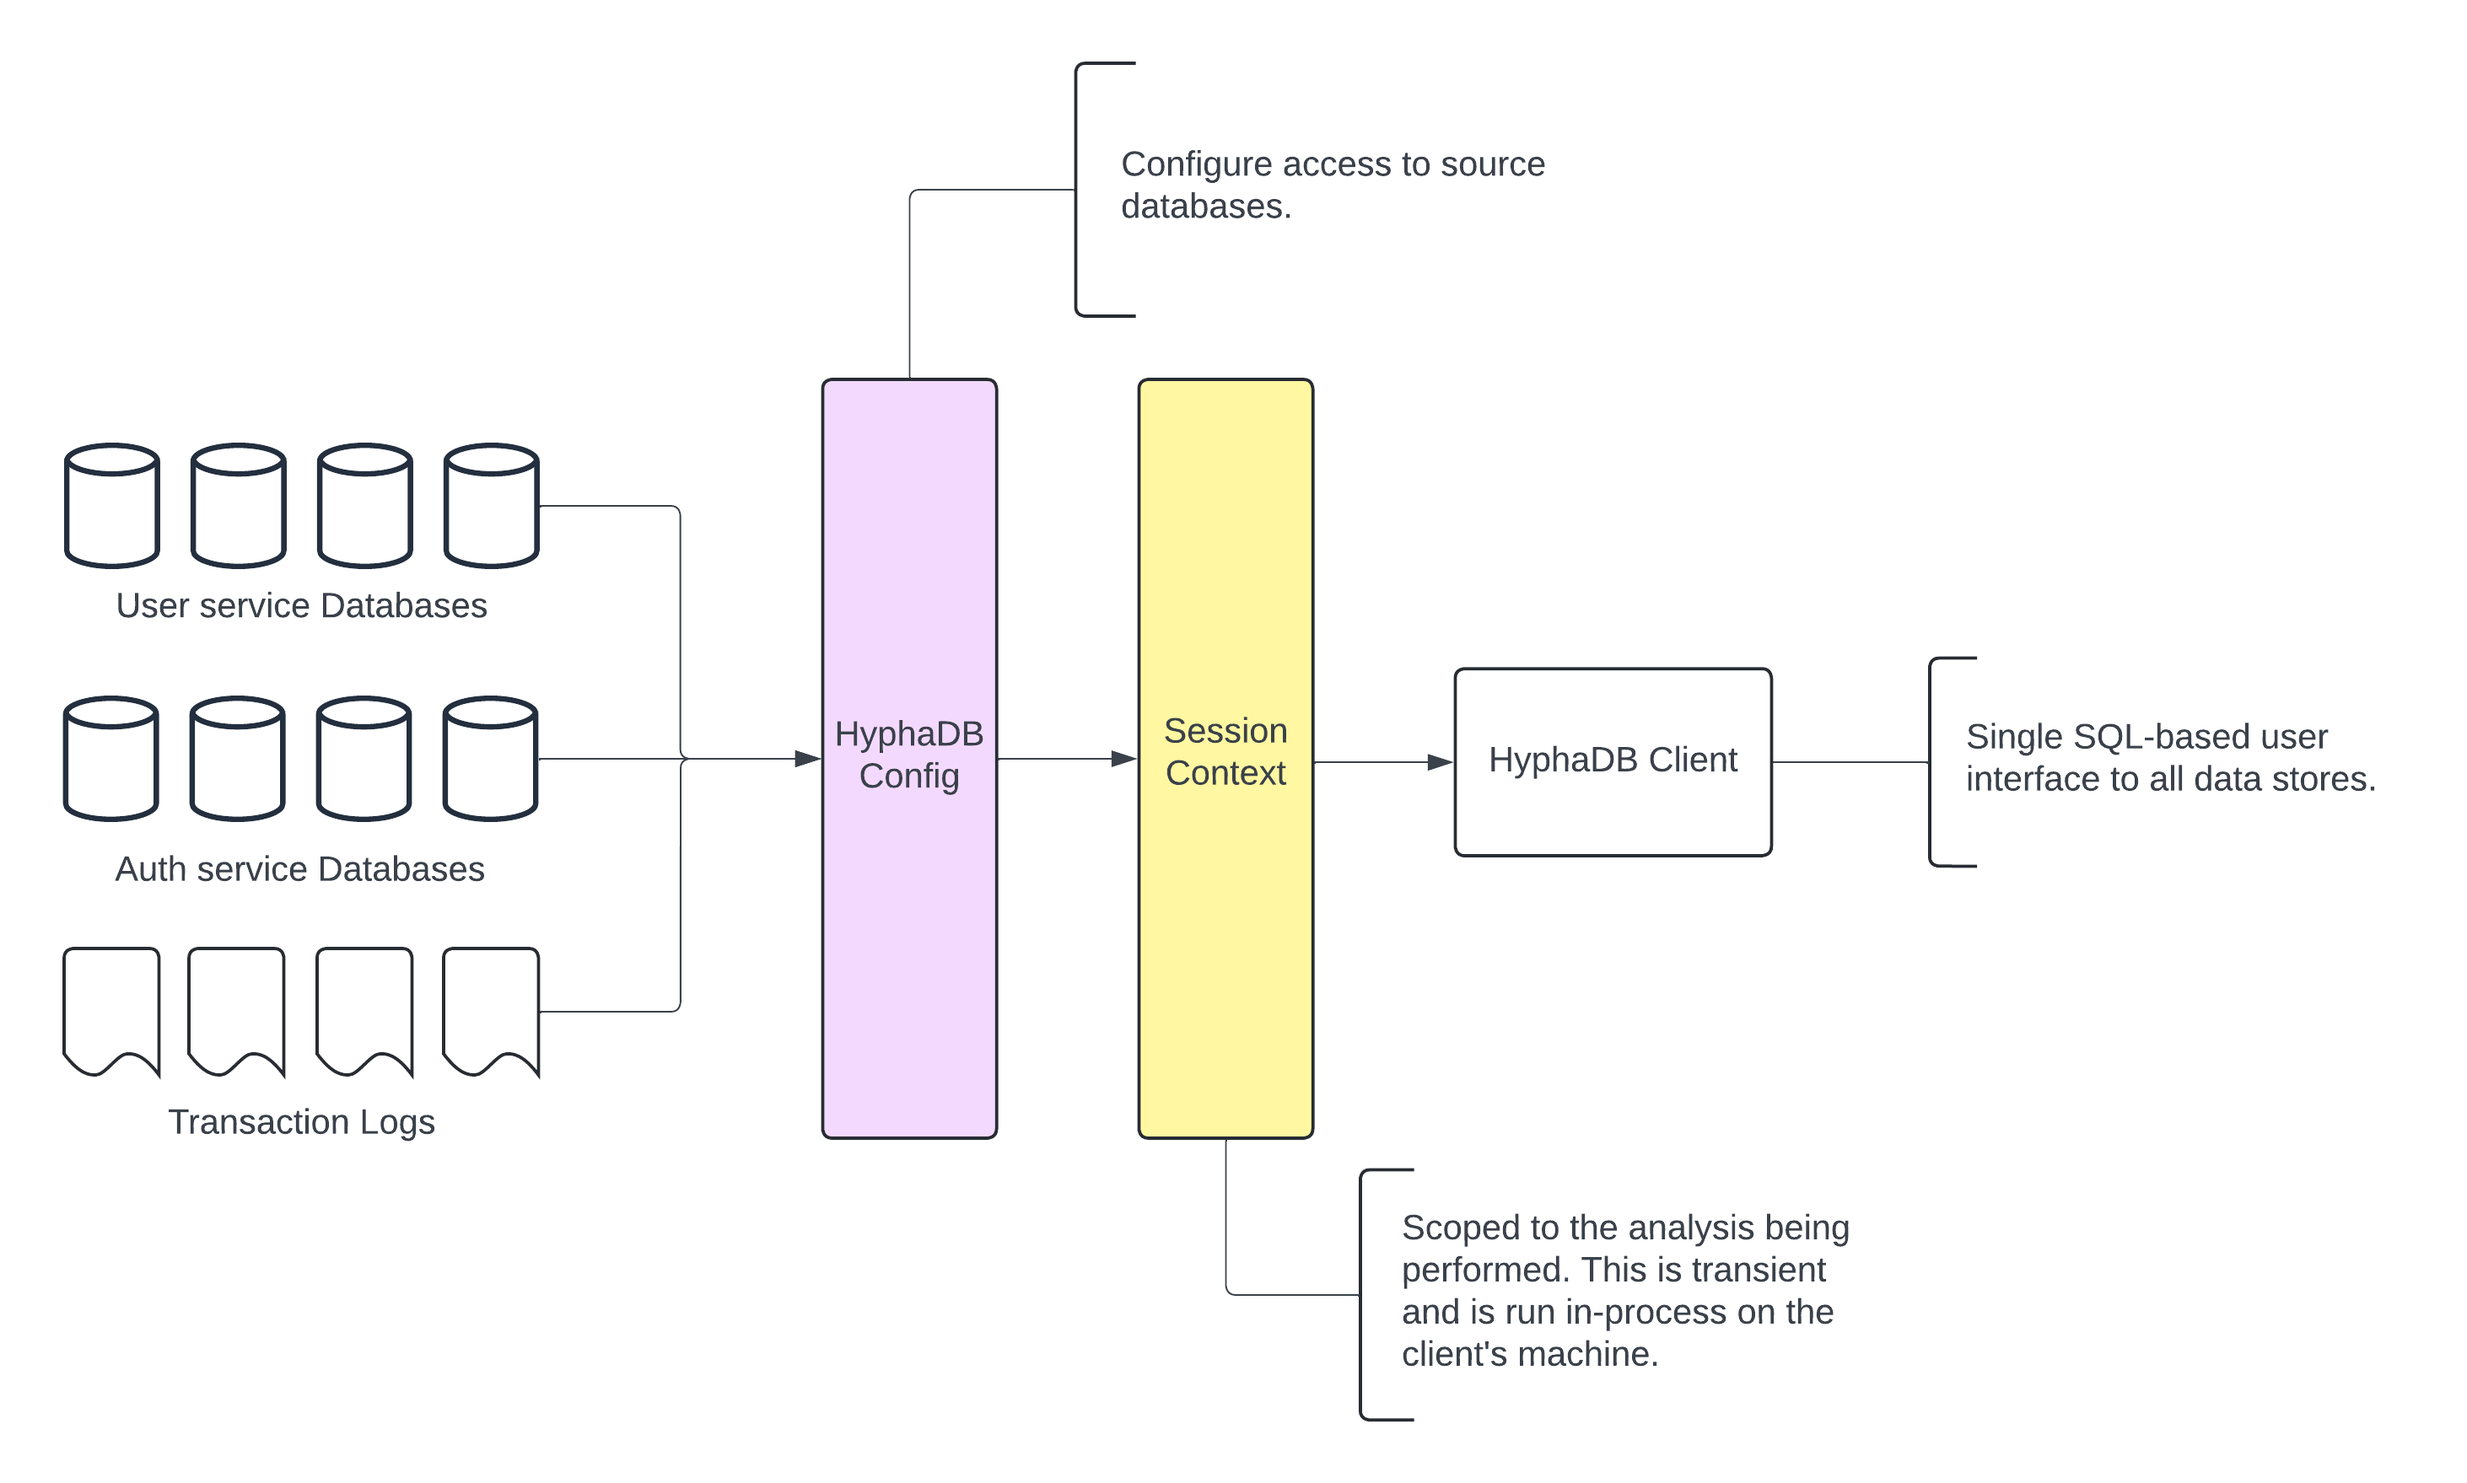
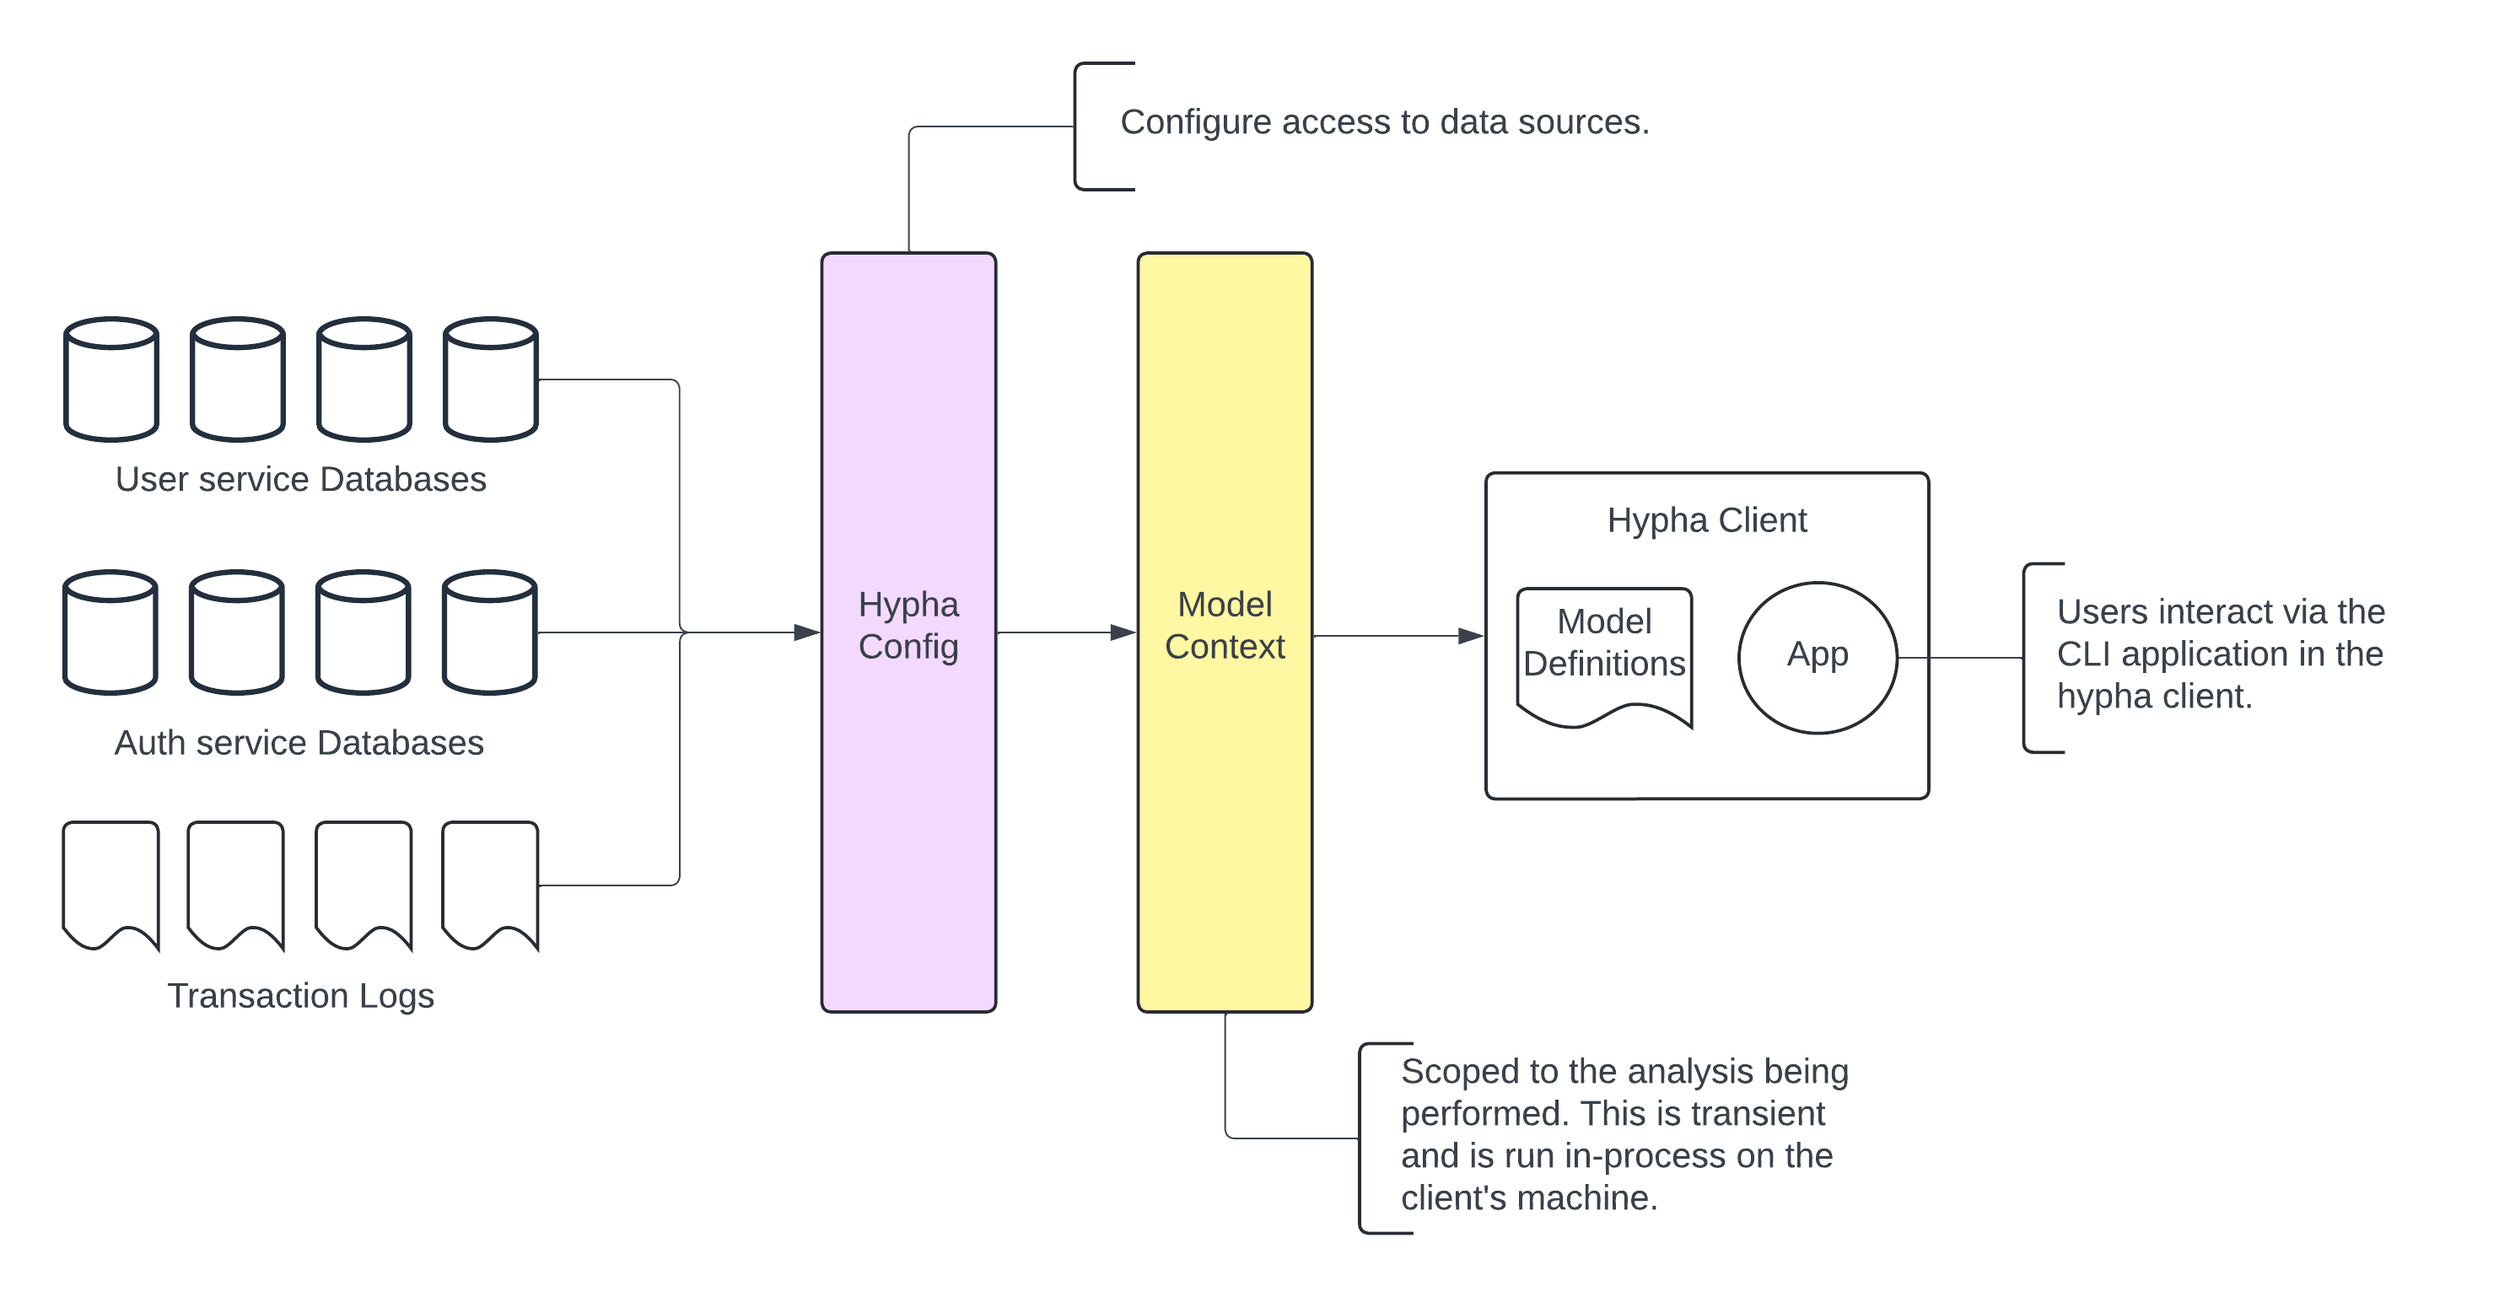
Change names

diff --git a/internal/cli/repl.go b/internal/cli/repl.go
@@ -6,9 +6,9 @@ import (
 	"strings"
 
 	"github.com/chzyer/readline"
-	"github.com/hyphadb/hyphadb/internal/config"
-	"github.com/hyphadb/hyphadb/internal/engine"
-	"github.com/hyphadb/hyphadb/internal/utils"
+	"github.com/hyphasql/hypha/internal/config"
+	"github.com/hyphasql/hypha/internal/engine"
+	"github.com/hyphasql/hypha/internal/utils"
 	"github.com/urfave/cli/v2"
 )
 
@@ -22,8 +22,8 @@ func Repl(c *cli.Context) error {
 	fmt.Println("Output format: ", outputFormat)
 
 	rl, err := readline.NewEx(&readline.Config{
-		Prompt:            "hyphadb> ",
-		HistoryFile:       "/tmp/readline.tmp",
+		Prompt:            "hypha> ",
+		HistoryFile:       "/tmp/hypha-history.tmp",
 		InterruptPrompt:   "^C",
 		EOFPrompt:         "exit",
 		HistorySearchFold: true,

diff --git a/internal/engine/retrieve.go b/internal/engine/retrieve.go
@@ -10,10 +10,10 @@ import (
 	"slices"
 	"time"
 
-	"github.com/hyphadb/hyphadb/internal/config"
-	internalMongo "github.com/hyphadb/hyphadb/internal/mongo"
-	"github.com/hyphadb/hyphadb/internal/pg"
-	"github.com/hyphadb/hyphadb/internal/utils"
+	"github.com/hyphasql/hypha/internal/config"
+	internalMongo "github.com/hyphasql/hypha/internal/mongo"
+	"github.com/hyphasql/hypha/internal/pg"
+	"github.com/hyphasql/hypha/internal/utils"
 	"github.com/jackc/pgx/v5/pgtype"
 	"github.com/jackc/pgx/v5/pgxpool"
 	"github.com/marcboeker/go-duckdb"

diff --git a/internal/engine/informationSchema.go b/internal/engine/informationSchema.go
@@ -6,11 +6,11 @@ import (
 	"fmt"
 	"strings"
 
-	"github.com/hyphadb/hyphadb/internal/config"
-	"github.com/hyphadb/hyphadb/internal/duckdb"
-	"github.com/hyphadb/hyphadb/internal/mysql"
-	"github.com/hyphadb/hyphadb/internal/pg"
-	"github.com/hyphadb/hyphadb/internal/utils"
+	"github.com/hyphasql/hypha/internal/config"
+	"github.com/hyphasql/hypha/internal/duckdb"
+	"github.com/hyphasql/hypha/internal/mysql"
+	"github.com/hyphasql/hypha/internal/pg"
+	"github.com/hyphasql/hypha/internal/utils"
 	"golang.org/x/sync/errgroup"
 )
 

diff --git a/internal/cli/app.go b/internal/cli/app.go
@@ -3,15 +3,15 @@ package cli
 import (
 	"fmt"
 
-	"github.com/hyphadb/hyphadb/internal/config"
-	"github.com/hyphadb/hyphadb/internal/utils"
+	"github.com/hyphasql/hypha/internal/config"
+	"github.com/hyphasql/hypha/internal/utils"
 	"github.com/urfave/cli/v2"
 )
 
 func NewApp() *cli.App {
 	app := &cli.App{
-		Name:  "HyphaDB",
-		Usage: "A command-line application for HyphaDB",
+		Name:  "hypha",
+		Usage: "A command-line application for hypha",
 		Flags: []cli.Flag{
 			&cli.StringFlag{
 				Name:    "log-level",

diff --git a/internal/cli/commands.go b/internal/cli/commands.go
@@ -4,10 +4,10 @@ import (
 	"encoding/json"
 	"fmt"
 
-	"github.com/hyphadb/hyphadb/internal/utils"
+	"github.com/hyphasql/hypha/internal/utils"
 
-	"github.com/hyphadb/hyphadb/internal/config"
-	"github.com/hyphadb/hyphadb/internal/engine"
+	"github.com/hyphasql/hypha/internal/config"
+	"github.com/hyphasql/hypha/internal/engine"
 	"github.com/urfave/cli/v2"
 )
 

diff --git a/internal/engine/model.go b/internal/engine/model.go
@@ -6,9 +6,9 @@ import (
 	"slices"
 	"strings"
 
-	"github.com/hyphadb/hyphadb/internal/config"
-	"github.com/hyphadb/hyphadb/internal/duckdb"
-	"github.com/hyphadb/hyphadb/internal/utils"
+	"github.com/hyphasql/hypha/internal/config"
+	"github.com/hyphasql/hypha/internal/duckdb"
+	"github.com/hyphasql/hypha/internal/utils"
 	"github.com/xwb1989/sqlparser"
 )
 

diff --git a/internal/engine/query.go b/internal/engine/query.go
@@ -1,9 +1,9 @@
 package engine
 
 import (
-	"github.com/hyphadb/hyphadb/internal/config"
-	"github.com/hyphadb/hyphadb/internal/duckdb"
-	"github.com/hyphadb/hyphadb/internal/utils"
+	"github.com/hyphasql/hypha/internal/config"
+	"github.com/hyphasql/hypha/internal/duckdb"
+	"github.com/hyphasql/hypha/internal/utils"
 )
 
 type QueryResults struct {

diff --git a/internal/engine/insert.go b/internal/engine/insert.go
@@ -4,8 +4,8 @@ import (
 	"database/sql/driver"
 	"fmt"
 
-	"github.com/hyphadb/hyphadb/internal/duckdb"
-	"github.com/hyphadb/hyphadb/internal/utils"
+	"github.com/hyphasql/hypha/internal/duckdb"
+	"github.com/hyphasql/hypha/internal/utils"
 )
 
 func Insert(modelName string, ic <-chan []driver.Value, dc chan<- []int64) {

diff --git a/internal/pg/connect.go b/internal/pg/connect.go
@@ -5,8 +5,8 @@ import (
 	"fmt"
 	"net/url"
 
-	"github.com/hyphadb/hyphadb/internal/config"
-	"github.com/hyphadb/hyphadb/internal/utils"
+	"github.com/hyphasql/hypha/internal/config"
+	"github.com/hyphasql/hypha/internal/utils"
 	"github.com/jackc/pgx/v5"
 	"github.com/jackc/pgx/v5/pgxpool"
 )

diff --git a/internal/mongo/connect.go b/internal/mongo/connect.go
@@ -5,7 +5,7 @@ import (
 	"fmt"
 	"net/url"
 
-	"github.com/hyphadb/hyphadb/internal/config"
+	"github.com/hyphasql/hypha/internal/config"
 	"go.mongodb.org/mongo-driver/mongo"
 	"go.mongodb.org/mongo-driver/mongo/options"
 	"go.mongodb.org/mongo-driver/mongo/readpref"

diff --git a/internal/pg/query.go b/internal/pg/query.go
@@ -4,8 +4,8 @@ import (
 	"context"
 	"fmt"
 
-	"github.com/hyphadb/hyphadb/internal/config"
-	"github.com/hyphadb/hyphadb/internal/utils"
+	"github.com/hyphasql/hypha/internal/config"
+	"github.com/hyphasql/hypha/internal/utils"
 	"github.com/jackc/pgx/v5"
 )
 

diff --git a/internal/engine/columnMetadata.go b/internal/engine/columnMetadata.go
@@ -3,8 +3,8 @@ package engine
 import (
 	"fmt"
 
-	"github.com/hyphadb/hyphadb/internal/config"
-	"github.com/hyphadb/hyphadb/internal/utils"
+	"github.com/hyphasql/hypha/internal/config"
+	"github.com/hyphasql/hypha/internal/utils"
 )
 
 type TableName string
